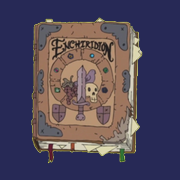
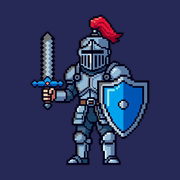
Cavaleiro no lugar do livro na tela de entrada e nos ícones do celular e da aba

diff --git a/index.html b/index.html
@@ -4,8 +4,8 @@
 <meta charset="utf-8">
 <meta name="viewport" content="width=device-width, initial-scale=1">
 <title>Ginásio de Mesa</title>
-<link rel="icon" type="image/png" href="midia/icone-64.png">
-<link rel="apple-touch-icon" href="midia/icone-180.png">
+<link rel="icon" type="image/png" href="midia/icone-64.png?v=2">
+<link rel="apple-touch-icon" href="midia/icone-180.png?v=2">
 <link rel="preconnect" href="https://fonts.googleapis.com">
 <link rel="preconnect" href="https://fonts.gstatic.com" crossorigin>
 <link rel="stylesheet" href="https://fonts.googleapis.com/css2?family=DotGothic16&family=Pixelify+Sans:wght@400;600&display=swap">
@@ -42,7 +42,7 @@
 
   <main class="conteudo" data-tela="entrada">
     <section class="caixa entrada">
-      <img class="entrada-icone" src="midia/livro.png" alt="">
+      <img class="entrada-icone" src="midia/cavaleiro.png" alt="">
       <h2 class="chamada-titulo">Ginásio de Mesa</h2>
       <p id="aviso-entrada">Abrindo o ginásio<span class="pontos"><span>.</span><span>.</span><span>.</span></span></p>
       <p class="detalhe" id="demora-entrada" hidden>Está demorando mais que o normal.</p>
